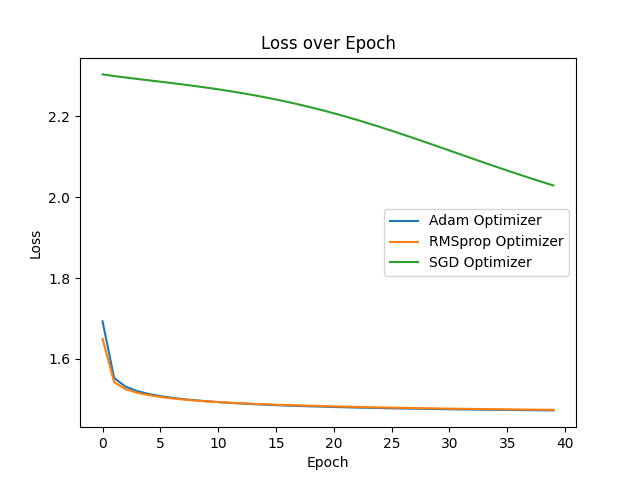
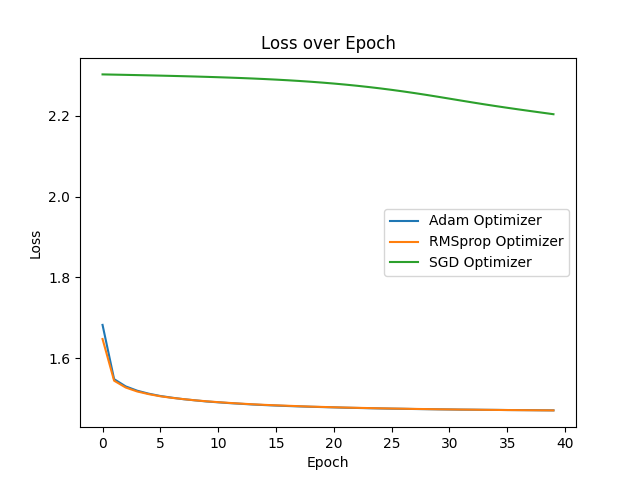
Update 3-PyTorch

diff --git a/lab3_3_pytorch.py b/lab3_3_pytorch.py
@@ -26,9 +26,10 @@ class NeuralNetwork(nn.Module):
         self.sigmoid = nn.Sigmoid()
         self.relu = nn.ReLU()
         self.tanh = nn.Tanh()
+        self.softmax = nn.Softmax()
 
     def forward(self, x):
-        return self.sigmoid(self.output(self.sigmoid(self.hidden(x))))
+        return self.softmax(self.output(self.sigmoid(self.hidden(x))))
 
 
 if __name__ == "__main__":

diff --git a/lab3.md b/lab3.md
@@ -4,32 +4,34 @@
 
 ### 1.2. Default Batch Size
 
-|  Type  | Batch Size | Activation | Optimizer | Loss  | Accuracy |  Time  |
-| :----: | :--------: | :--------: | :-------: | :---: | :------: | :----: |
-| Binary |     32     |  Sigmoid   |   Adam    | 0.03  |  99.15%  | XX.XXs |
+| Batch Size | Activation | Optimizer |  Loss  | Accuracy |  Time   |
+| :--------: | :--------: | :-------: | :----: | :------: | :-----: |
+|     32     |  Sigmoid   |   Adam    | 0.0232 |  99.31%  | 465.82s |
 
-<img src="plots/ex1/lab3_1_keras_bs32_loss.png" alt="plots/lab3_1_keras_bs32_loss.png" height="240" />
-<img src="plots/ex1/lab3_1_keras_bs32_accuracy.png" alt="plots/lab3_1_keras_bs32_accuracy.png" height="240" />
+<img src="plots/ex1/keras/default_loss_over_epoch.png" height="240" />
+<img src="plots/ex1/keras/default_accuracy_over_epoch.png" height="240" />
 
 After 40 epochs, the loss and accuracy tends to stabilize and going further wouldn't be useful.
 
 ### 1.3. Different Batch Sizes
 
- |  Type  | Batch Size | Activation | Optimizer | Loss  | Accuracy |  Time  |
- | :----: | :--------: | :--------: | :-------: | :---: | :------: | :----: |
- | Binary |   60000    |  Sigmoid   |   Adam    | X.XX  |  XX.XX%  | XX.XXs |
- | Binary |    2048    |  Sigmoid   |   Adam    | X.XX  |  XX.XX%  | XX.XXs |
- | Binary |    1024    |  Sigmoid   |   Adam    | X.XX  |  XX.XX%  | XX.XXs |
- | Binary |    512     |  Sigmoid   |   Adam    | X.XX  |  XX.XX%  | XX.XXs |
- | Binary |    256     |  Sigmoid   |   Adam    | X.XX  |  XX.XX%  | XX.XXs |
- | Binary |    128     |  Sigmoid   |   Adam    | X.XX  |  XX.XX%  | XX.XXs |
- | Binary |     64     |  Sigmoid   |   Adam    | X.XX  |  XX.XX%  | XX.XXs |
- | Binary |     32     |  Sigmoid   |   Adam    | X.XX  |  XX.XX%  | XX.XXs |
- | Binary |     16     |  Sigmoid   |   Adam    | X.XX  |  XX.XX%  | XX.XXs |
+| Batch Size |  Loss  | Accuracy |  Time   |
+| :--------: | :----: | :------: | :-----: |
+|   60000    | 0.3035 |  90.20%  |  4.38s  |
+|    2048    | 0.0333 |  99.08%  | 11.50s  |
+|    1024    | 0.0244 |  99.25%  | 18.89s  |
+|    512     | 0.0222 |  99.25%  | 33.66s  |
+|    256     | 0.0214 |  99.30%  | 64.63s  |
+|    128     | 0.0227 |  99.24%  | 147.17s |
+|     64     | 0.0235 |  99.25%  | 291.96s |
+|     32     | 0.0232 |  99.31%  | 465.82s |
+|     16     | 0.0243 |  99.29%  | 565.27s |
 
-<img src="plots/ex1/lab3_1_keras_bs_cmp_loss.png" alt="plots/lab3_1_keras_bs_cmp_loss.png" height="240" />
-<img src="plots/ex1/lab3_1_keras_bs_cmp_accuracy.png" alt="plots/lab3_1_keras_bs_cmp_accuracy.png" height="240" />
-<img src="plots/ex1/lab3_1_keras_bs_cmp_duration.png" alt="plots/lab3_1_keras_bs_cmp_duration.png" height="240" />
+<img src="plots/ex1/keras/loss_over_bs.png" height="240" />
+<img src="plots/ex1/keras/accuracy_over_bs.png" height="240" />
+<img src="plots/ex1/keras/training_time_over_bs.png" height="240" />
+<img src="plots/ex1/keras/loss_over_epoch.png" height="240" />
+<img src="plots/ex1/keras/accuracy_over_epoch.png" height="240" />
 
 We can see that smaller batch sizes give better results but take much longer. A good compromise would be around 32, as the results are nearly the same as smaller values, but the execution time remains acceptable. We will keep this one for our next models.
 
@@ -37,9 +39,9 @@ We can see that smaller batch sizes give better results but take much longer. A 
 
 ### 2.2. Default Network
 
-|  Type  | HL Units |   Activations    | Optimizer | Loss  | Accuracy |  Time  |
-| :----: | :------: | :--------------: | :-------: | :---: | :------: | :----: |
-| Binary |    64    | Sigmoid, Sigmoid |   Adam    | 0.02  |  99.77%  | XX.XXs |
+| HL Units |   Activations    | Optimizer | Loss  | Accuracy |  Time  |
+| :------: | :--------------: | :-------: | :---: | :------: | :----: |
+|    64    | Sigmoid, Sigmoid |   Adam    | 0.02  |  99.77%  | XX.XXs |
 
 <img src="plots/ex2/lab3_2_keras_64u_loss.png" alt="plots/lab3_2_keras_64u_loss.png" height="240" />
 <img src="plots/ex2/lab3_2_keras_64u_accuracy.png" alt="plots/lab3_2_keras_64u_accuracy.png" height="240" />
@@ -48,19 +50,19 @@ We can see that smaller batch sizes give better results but take much longer. A 
 
 ### 2.3. Different numbers of neurons on hidden layer
 
-|  Type  | HL Units |   Activations    | Optimizer | Loss  | Accuracy |  Time  |
-| :----: | :------: | :--------------: | :-------: | :---: | :------: | :----: |
-| Binary |    8     | Sigmoid, Sigmoid |   Adam    | 0.02  |  99.58%  | XX.XXs |
-| Binary |    16    | Sigmoid, Sigmoid |   Adam    | 0.02  |  99.72%  | XX.XXs |
-| Binary |    32    | Sigmoid, Sigmoid |   Adam    | 0.02  |  99.75%  | XX.XXs |
-| Binary |   128    | Sigmoid, Sigmoid |   Adam    | 0.01  |  99.80%  | XX.XXs |
+| HL Units | Loss  | Accuracy |  Time  |
+| :------: | :---: | :------: | :----: |
+|    8     | 0.02  |  99.58%  | XX.XXs |
+|    16    | 0.02  |  99.72%  | XX.XXs |
+|    32    | 0.02  |  99.75%  | XX.XXs |
+|    64    | 0.02  |  99.77%  | XX.XXs |
+|   128    | 0.01  |  99.80%  | XX.XXs |
 
 <img src="plots/ex2/lab3_2_keras_hlu_loss.png" alt="plots/lab3_2_keras_hlu_loss.png" height="240" />
 <img src="plots/ex2/lab3_2_keras_hlu_accuracy.png" alt="plots/lab3_2_keras_hlu_accuracy.png" height="240" />
 
 <img src="plots/ex2/lab3_2_keras_hlu_model_accuracy.png" alt="plots/lab3_2_keras_hlu_model_accuracy.png" height="240" />
-<img src="plots/ex2/lab3_2_keras_hlu_duration.png" alt="plots/lab3_2_keras_hlu_duration.png" height="240" />
-
+<img src="plots/ex2/keras/hlu/training_time_over_hlu.png" height="240" />
 
 **128 neurons**: Since the accuracy is already very high, it would be overkilled to add more neurons to the hidden layer, at least for this model. Indeed, it would take more time (I guess ?), just to get just results that are just as good.
 
@@ -70,18 +72,18 @@ That's the highest accuracy we got, but it's not significantly higher for us to 
 
 ### 2.4. Different activation functions
 
-**N.B.:** We won't try softmax on last layer because it's only relevant on multiclass classification.
+**N.B.:** We won't try Softmax on last layer because it's only relevant on multiclass classification.
 
-|  Type  | HL Units |  Activations  | Optimizer | Loss  | Accuracy |  Time  |
-| :----: | :------: | :-----------: | :-------: | :---: | :------: | :----: |
-| Binary |    64    | sigmoid, relu |   Adam    | 1.51  |  90.20%  | XX.XXs |
-| Binary |    64    | sigmoid, tanh |   Adam    | 0.02  |  99.68%  | XX.XXs |
-| Binary |    64    | relu, sigmoid |   Adam    | 0.02  |  99.81%  | XX.XXs |
-| Binary |    64    |  relu, relu   |   Adam    | 1.51  |  90.20%  | XX.XXs |
-| Binary |    64    |  relu, tanh   |   Adam    | 1.51  |  90.20%  | XX.XXs |
-| Binary |    64    | tanh, sigmoid |   Adam    | 0.02  |  99.81%  | XX.XXs |
-| Binary |    64    |  tanh, relu   |   Adam    | 1.51  |  90.20%  | XX.XXs |
-| Binary |    64    |  tanh, tanh   |   Adam    | 0.03  |  99.58%  | XX.XXs |
+|  Activations  | Loss  | Accuracy |  Time  |
+| :-----------: | :---: | :------: | :----: |
+| Sigmoid, ReLU | 1.51  |  90.20%  | XX.XXs |
+| Sigmoid, Tanh | 0.02  |  99.68%  | XX.XXs |
+| ReLU, Sigmoid | 0.02  |  99.81%  | XX.XXs |
+|  ReLU, ReLU   | 1.51  |  90.20%  | XX.XXs |
+|  ReLU, Tanh   | 1.51  |  90.20%  | XX.XXs |
+| Tanh, Sigmoid | 0.02  |  99.81%  | XX.XXs |
+|  Tanh, ReLU   | 1.51  |  90.20%  | XX.XXs |
+|  Tanh, Tanh   | 0.03  |  99.58%  | XX.XXs |
 
 <img src="plots/ex2/lab3_2_keras_af0_loss.png" alt="plots/lab3_2_keras_af0_loss.png" height="240" />
 <img src="plots/ex2/lab3_2_keras_af1_loss.png" alt="plots/lab3_2_keras_af1_loss.png" height="240" />
@@ -95,14 +97,13 @@ That's the highest accuracy we got, but it's not significantly higher for us to 
 
 …
 
-
 ## 3. Multiclass Neural Networks
 
 ### 3.2. Default Network
 
-|    Type    | HL Units |   Activations    | Optimizer | Loss  | Accuracy |  Time  |
-| :--------: | :------: | :--------------: | :-------: | :---: | :------: | :----: |
-| Multiclass |    64    | sigmoid, softmax |   Adam    | 0.11  |  97.31%  | XX.XXs | <!-- real loss: 0.1117 --> |
+| Optimizer |   Activations    |  Loss  | Accuracy |  Time  |
+| :-------: | :--------------: | :----: | :------: | :----: |
+|   Adam    | Sigmoid, Softmax | 0.1117 |  97.31%  | XX.XXs |
 
 <img src="plots/ex3/lab3_3_keras_adam_loss.png" alt="plots/lab3_3_keras_adam_loss.png" height="240" />
 <img src="plots/ex3/lab3_3_keras_adam_accuracy.png" alt="plots/lab3_3_keras_adam_accuracy.png" height="240" />
@@ -111,10 +112,11 @@ That's the highest accuracy we got, but it's not significantly higher for us to 
 
 ### 3.3. Different optimizers
 
-|    Type    | HL Units |   Activations    | Optimizer | Loss  | Accuracy |  Time  |
-| :--------: | :------: | :--------------: | :-------: | :---: | :------: | :----: |
-| Multiclass |    64    | sigmoid, softmax |    SGD    | 0.20  |  94.21%  | XX.XXs | <!-- real loss: 0.1971 --> |
-| Multiclass |    64    | sigmoid, softmax |  RMSprop  | 0.11  |  97.46%  | XX.XXs | <!-- real loss: 0.1087 --> |
+| Optimizer |  Loss  | Accuracy |  Time  |
+| :-------: | :----: | :------: | :----: |
+|   Adam    | 0.1117 |  97.31%  | XX.XXs |
+|  RMSprop  | 0.1087 |  97.46%  | XX.XXs |
+|    SGD    | 0.1971 |  94.21%  | XX.XXs |
 
 <img src="plots/ex3/lab3_3_keras_opt_loss.png" alt="plots/lab3_3_keras_opt_loss.png" height="240" />
 <img src="plots/ex3/lab3_3_keras_opt_accuracy.png" alt="plots/lab3_3_opt_sgd_accuracy.png" height="240" />
@@ -127,26 +129,21 @@ That's the highest accuracy we got, but it's not significantly higher for us to 
 
 ### Summary table
 
-
-
-
-
-
-## PYTORCH
+## PyTorch
 
 ### Binary Classification: Single Neuron
 
-|  Type  | Batch Size | Activation | Optimizer |  Loss  | Accuracy |  Time   |
-| :----: | :--------: | :--------: | :-------: | :----: | :------: | :-----: |
-| Binary |   60000    |  Sigmoid   |   Adam    | 0.3021 |  90.97%  | 119.37s |
-| Binary |    2048    |  Sigmoid   |   Adam    | 0.1011 |  94.52%  | 83.70s  |
-| Binary |    1024    |  Sigmoid   |   Adam    | 0.0904 |  96.59%  | 86.38s  |
-| Binary |    512     |  Sigmoid   |   Adam    | 0.0844 |  96.80%  | 85.34s  |
-| Binary |    256     |  Sigmoid   |   Adam    | 0.0822 |  97.35%  | 87.18s  |
-| Binary |    128     |  Sigmoid   |   Adam    | 0.0809 |  97.56%  | 90.80s  |
-| Binary |     64     |  Sigmoid   |   Adam    | 0.0797 |  97.66%  | 100.32s |
-| Binary |     32     |  Sigmoid   |   Adam    | 0.0814 |  97.57%  | 112.29s |
-| Binary |     16     |  Sigmoid   |   Adam    | 0.0800 |  97.78%  | 122.05s |
+| Batch Size |  Loss  | Accuracy |  Time   |
+| :--------: | :----: | :------: | :-----: |
+|   60000    | 0.3027 |  90.97%  | 123.33s |
+|    2048    | 0.1008 |  94.53%  | 96.60s  |
+|    1024    | 0.0904 |  96.59%  | 98.84s  |
+|    512     | 0.0845 |  96.81%  | 100.26s |
+|    256     | 0.0822 |  97.31%  | 101.05s |
+|    128     | 0.0807 |  97.61%  | 105.33s |
+|     64     | 0.0799 |  97.64%  | 112.18s |
+|     32     | 0.0790 |  97.74%  | 121.56s |
+|     16     | 0.0787 |  97.79%  | 142.27s |
 
 <img src="plots/ex1/pytorch/loss_over_bs.png" height="240" />
 <img src="plots/ex1/pytorch/accuracy_over_bs.png" height="240" />
@@ -154,19 +151,19 @@ That's the highest accuracy we got, but it's not significantly higher for us to 
 <img src="plots/ex1/pytorch/loss_over_epoch.png" height="240" />
 <img src="plots/ex1/pytorch/accuracy_over_epoch.png" height="240" />
 
-…
+As we have seen before, the smaller the batch size, the better the accuracy. But the training time is also growing rapidly. So, in order to keep a good ratio time/effectiveness, a batch size of 32 still seems the better option.
 
 ### Binary Classification: Hidden Layer
 
 #### Hidden Layer Units (HLU)
 
-|  Type  | HL Units |   Activations    | Optimizer |  Loss  | Accuracy |  Time   |
-| :----: | :------: | :--------------: | :-------: | :----: | :------: | :-----: |
-| Binary |    8     | Sigmoid, Sigmoid |   Adam    | 0.0091 |  99.75%  | 92.47s  |
-| Binary |    16    | Sigmoid, Sigmoid |   Adam    | 0.0024 |  99.97%  | 96.81s  |
-| Binary |    32    | Sigmoid, Sigmoid |   Adam    | 0.0002 | 100.00%  | 99.41s  |
-| Binary |    64    | Sigmoid, Sigmoid |   Adam    | 0.0000 | 100.00%  | 102.66s |
-| Binary |   128    | Sigmoid, Sigmoid |   Adam    | 0.0001 | 100.00%  | 119.12s |
+|  HLU  |  Loss  | Accuracy |  Time   |
+| :---: | :----: | :------: | :-----: |
+|   8   | 0.0091 |  99.75%  | 92.47s  |
+|  16   | 0.0024 |  99.97%  | 96.81s  |
+|  32   | 0.0002 | 100.00%  | 99.41s  |
+|  64   | 0.0000 | 100.00%  | 102.66s |
+|  128  | 0.0001 | 100.00%  | 119.12s |
 
 <img src="plots/ex2/pytorch/hlu/loss_over_hlu.png" height="240" />
 <img src="plots/ex2/pytorch/hlu/accuracy_over_hlu.png" height="240" />
@@ -174,7 +171,7 @@ That's the highest accuracy we got, but it's not significantly higher for us to 
 <img src="plots/ex2/pytorch/hlu/loss_over_epoch.png" height="240" />
 <img src="plots/ex2/pytorch/hlu/accuracy_over_epoch.png" height="240" />
 
-…
+As expected, the more HLU, the better the accuracy. But the training time is also growing rapidly. So, in order to keep a good ratio time/effectiveness, 64 units still seems the better option.
 
 #### Activation Functions (AF)
 
@@ -182,4 +179,16 @@ That's the highest accuracy we got, but it's not significantly higher for us to 
 
 ### Multiclass Classification
 
-<!-- TODO -->
+| Optimizer |  Loss  | Accuracy |  Time  |
+| :-------: | :----: | :------: | :----: |
+|   Adam    | 1.4708 |  99.12%  | 97.29s |
+|  RMSprop  | 1.4701 |  99.16%  | 96.68s |
+|    SGD    | 2.2037 |  23.30%  | 96.39s |
+
+<img src="plots/ex3/pytorch/loss_over_opt.png" height="240" />
+<img src="plots/ex3/pytorch/accuracy_over_opt.png" height="240" />
+<img src="plots/ex3/pytorch/training_time_over_opt.png" height="240" />
+<img src="plots/ex3/pytorch/loss_over_epoch.png" height="240" />
+<img src="plots/ex3/pytorch/accuracy_over_epoch.png" height="240" />
+
+We can notice that the SGD optimizer doesn't give results as good as the other two on this dataset. Adam and RMSprop are both giving the same results.
